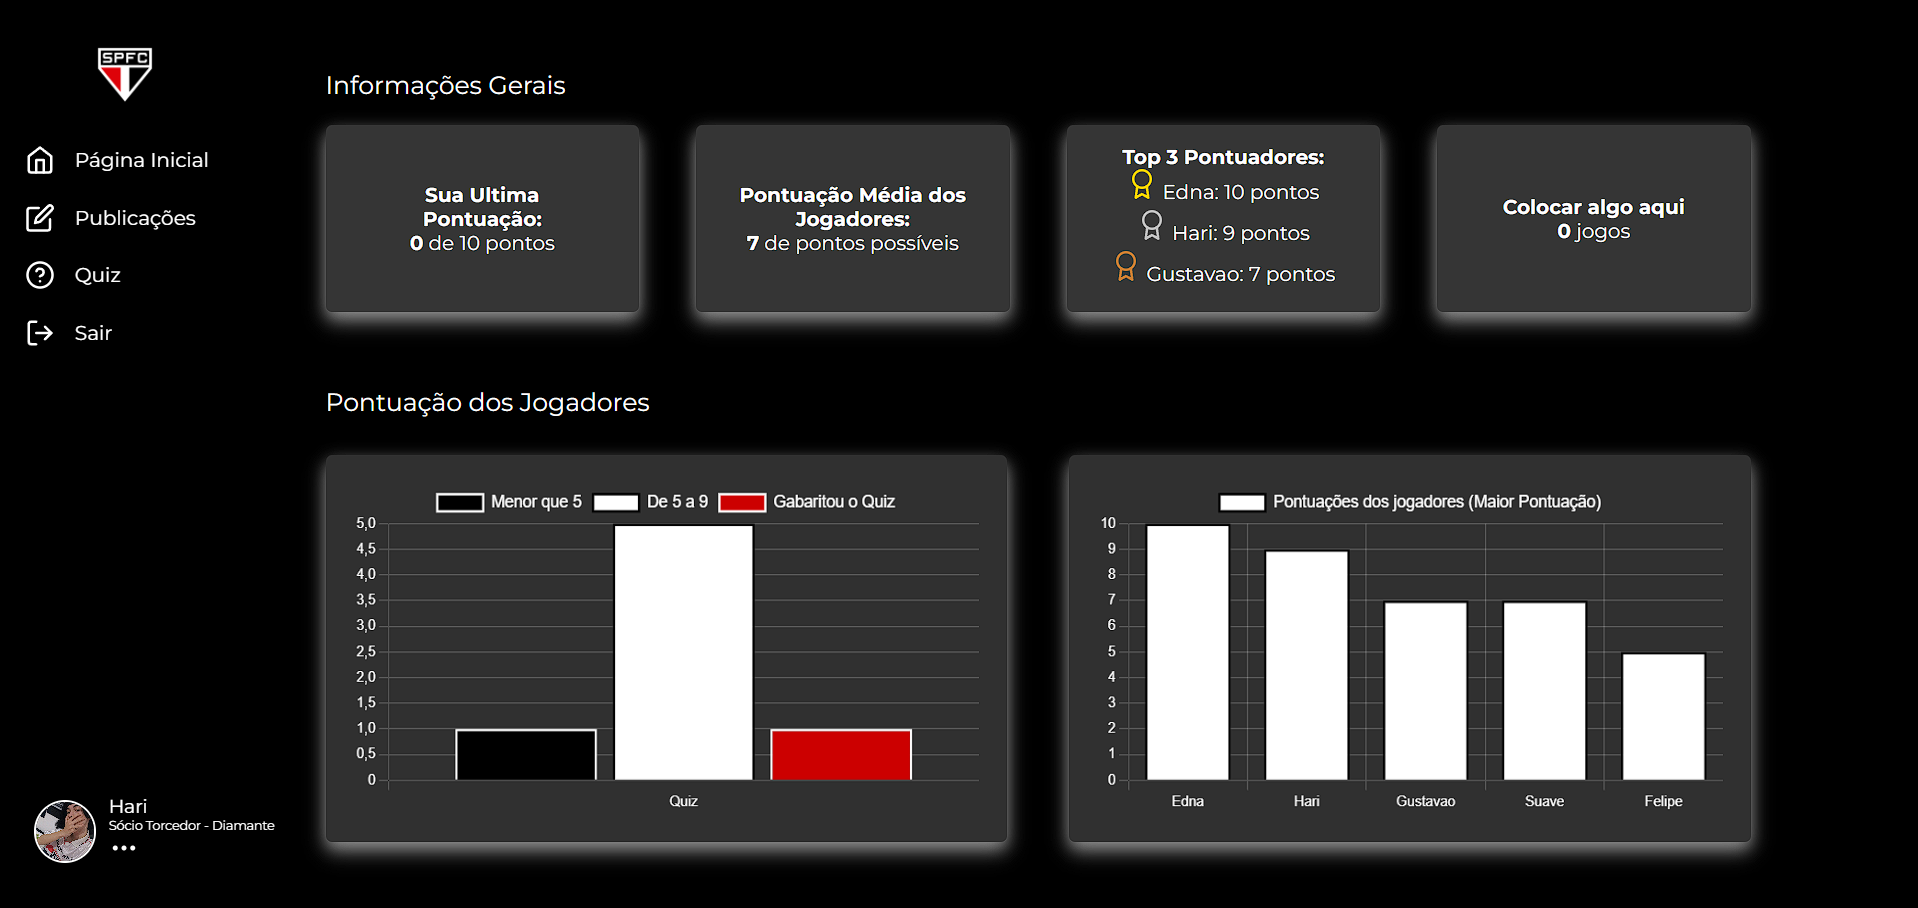
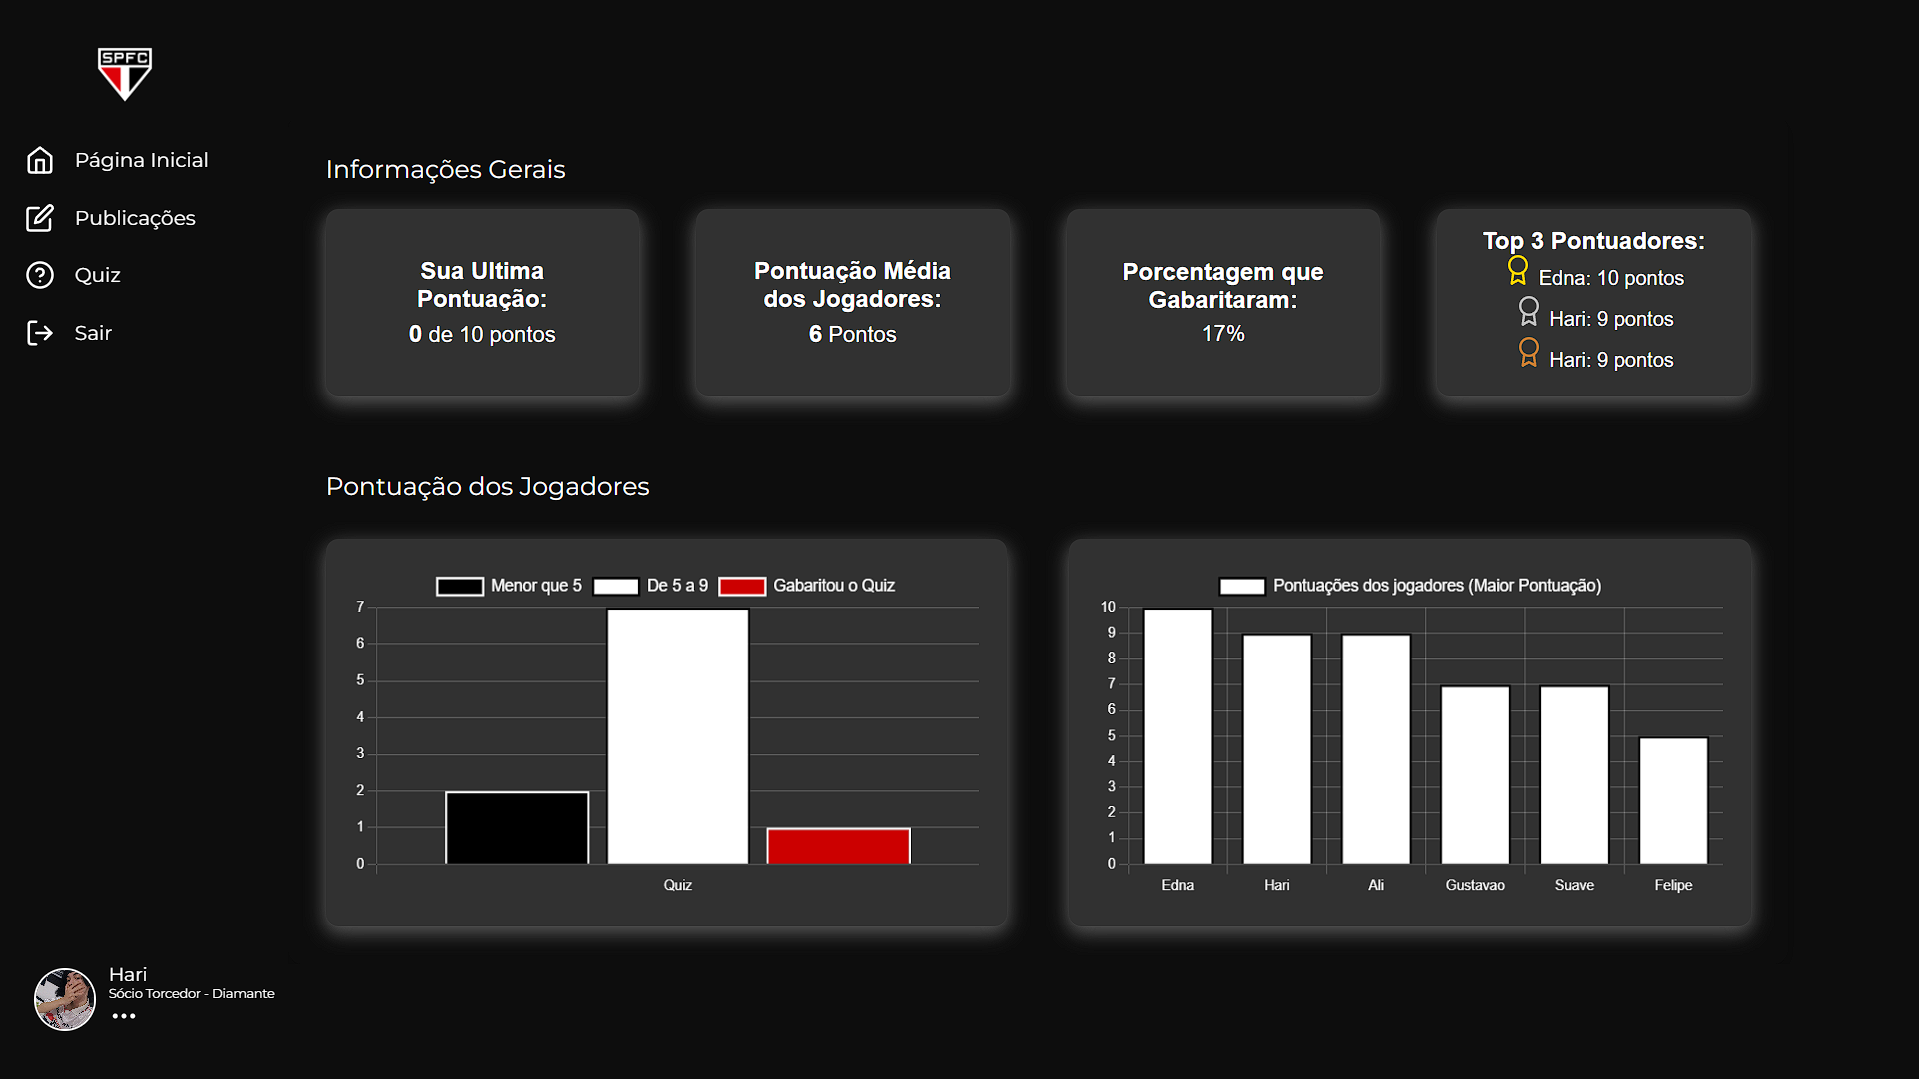
updates na landing page

diff --git a/Site/public/assets/api/main.js b/Site/public/assets/api/main.js
@@ -1,5 +1,5 @@
 const URL_TABELA = 'https://api.api-futebol.com.br/v1/campeonatos/10/tabela';
-const API_KEY = 'live_dc3742e856b8ed622b27a409bcc046';
+const API_KEY = 'live_71e2c173a5ea02d90c9e9dd2eda7a5';
 
 // Função para obter a tabela do Brasileirão
 async function obterTabela() {

diff --git a/Site/public/dashboard/dashboard.html b/Site/public/dashboard/dashboard.html
@@ -61,7 +61,7 @@
 
         </div>
         <div class="kpi3">
-          <span>Porcentagem de<br> Gabaritaram:</span>
+          <span>Porcentagem que<br> Gabaritaram:</span>
           <span id="kpi3Result"></span>
       </div>      
         <div class="kpi4">
